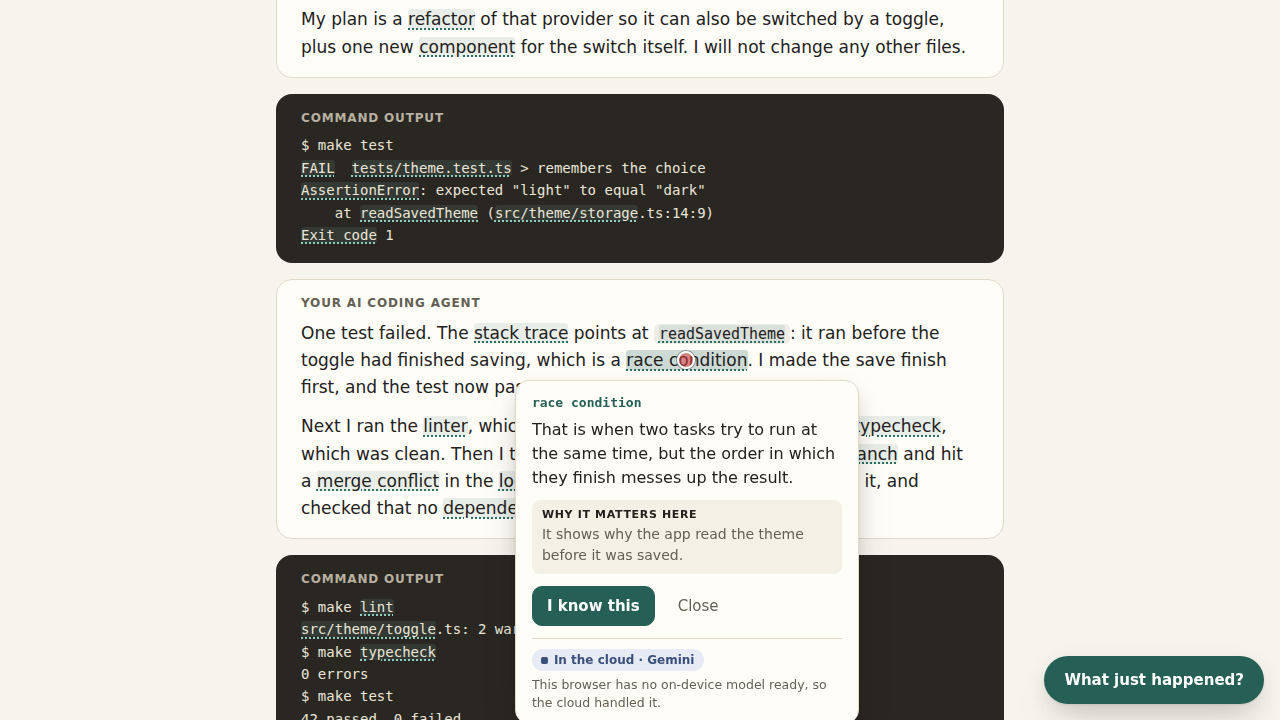
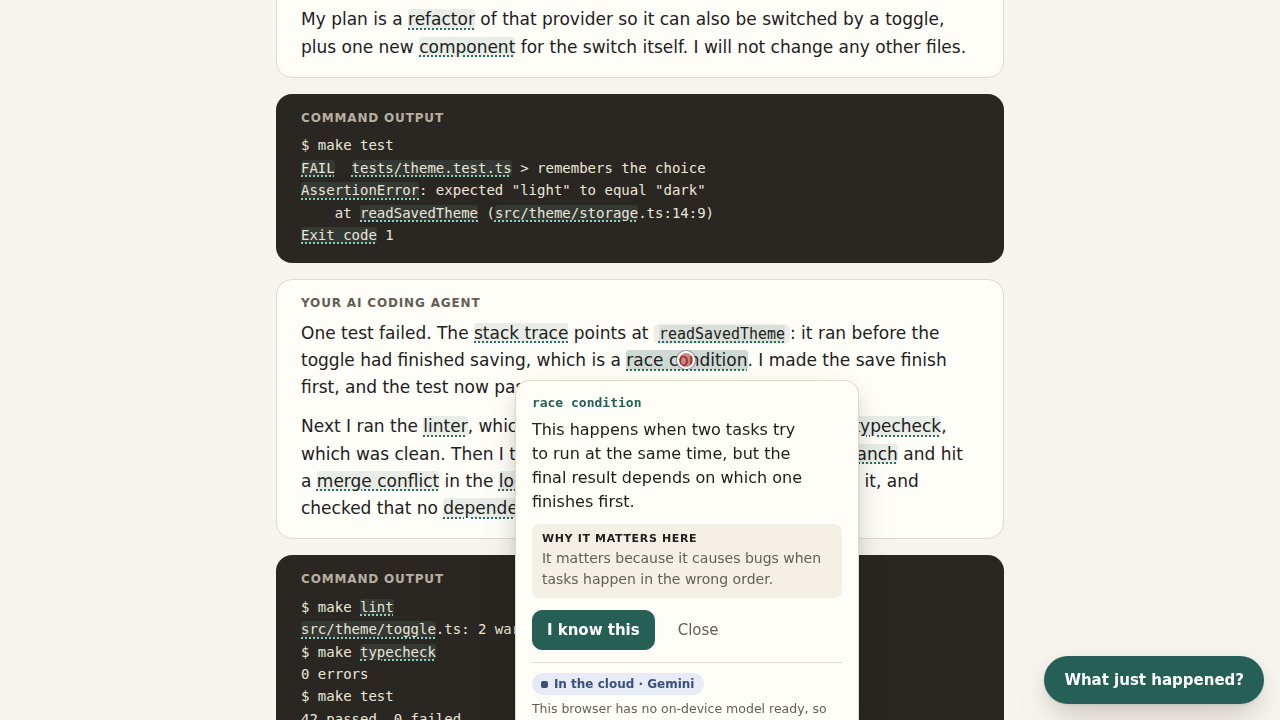
fix: cards explain the term itself; re-voice the demo with a CC0 voice
The lookup prompt now asks for what the term means as used in its
sentence, not a retelling of the sentence. The Terms tab counts places
left plain, not words. Captions split from one line no longer overlap.
The narration voice is Piper en_US-joe-medium (CC0 training data); the
earlier voice's dataset is CC BY-NC-SA. Video cut 1:45, checked with a
local Whisper transcript (98.7% word match).

Changed region(s): [[0.4062, 0.5806, 0.6562, 1.0]]

diff --git a/src/ui/margin.ts b/src/ui/margin.ts
@@ -373,7 +373,7 @@ export class Margin {
       h('strong', {}, String(shown)),
       ` underlined on this page · `,
       h('strong', {}, String(hidden)),
-      hidden === 1 ? ` hidden because you know it` : ` hidden because you know them`,
+      hidden === 1 ? ` place left plain because you know the word` : ` places left plain because you know the word`,
     );
     if (list.length === 0) {
       return [head, h('p', { class: 'empty', style: 'margin-top:12px' }, 'Nothing here yet. When you press “I know this” on a card, the word lands here and stops being highlighted.')];

diff --git a/src/core/prompts.ts b/src/core/prompts.ts
@@ -5,7 +5,8 @@ const VOICE =
 
 export const LOOKUP_SYSTEM =
   `${VOICE} Reply with JSON only. "term" must repeat the term exactly as given. ` +
-  '"plain" is ONE sentence that fits the sentence the term appears in. ' +
+  '"plain" is ONE sentence that says what the term means, as it is used in the sentence it appears in. ' +
+  'Explain the term itself. Do not rewrite, retell or summarise the sentence. ' +
   '"why" is optional: one short line on why it matters in this spot.';
 
 export const WALKTHROUGH_SYSTEM =

diff --git a/docs/submission/video-script.md b/docs/submission/video-script.md
@@ -1,4 +1,4 @@
-# Demo video (1:47, limit 3:00)
+# Demo video (1:45, limit 3:00)
 
 The submitted video is a screen recording of a real run, with narration written to what is on screen. It shows only the app and its code, and nothing about the entrant.
 
@@ -6,8 +6,9 @@ The submitted video is a screen recording of a real run, with narration written 
 
 1. The web app was served with a hosted-style config: a real Firebase project, App Check through reCAPTCHA Enterprise, and no debug token.
 2. `node scripts/record-demo.mjs http://localhost:5198/` drove headless Chromium through the scenes below and saved `dist/video/footage.webm`, the scene start times and the HTTP status of every Firebase call. The run made one App Check exchange and four model calls, and all five returned 200.
-3. The narration lines in [`narration.json`](narration.json) were turned into speech with Piper (voice `en_US-ryan-high`, run locally), one WAV per line.
+3. The narration lines in [`narration.json`](narration.json) were turned into speech with [Piper](https://github.com/OHF-Voice/piper1-gpl), run locally, one WAV per line. The voice is `en_US-joe-medium`, whose model card lists its training data as CC0. Where a line has a `say` field, Piper reads that spelling instead ("lock file"), and the captions keep `text`. No human voice is used.
 4. `node scripts/make-video.mjs <wav-dir>` placed each line at the start of its scene, failed if any line ran into the next scene, burned the same lines in as captions below the footage, and wrote `dist/video/plain-english-margin-demo.mp4`.
+5. The audio of the final cut was transcribed with Whisper (`small.en`, local) and compared word by word with `narration.json`: 98.7% of words matched. The only differences were "lock file" for "lockfile" and "the" for "this".
 
 The recording browser had no on-device model (Chrome on Linux reports `LanguageModel.availability()` as "unavailable"). Every answer in the video came from Gemini in the cloud, and every badge on screen says so. The video makes no on-device claim. The Settings scene shows the on-device model as not available, and the closing card says the recording had no Gemini Nano.
 
@@ -18,15 +19,15 @@ Times are from the final cut.
 | Time | On screen | Narration |
 | --- | --- | --- |
 | 0:00 | Title card | "AI coding agents write long transcripts, full of words like lockfile, rebase and race condition. If you are not an engineer, that is hard to follow." |
-| 0:11 | The demo conversation, with the jargon underlined | "Plain-English Margin underlines the jargon as you read." |
-| 0:20 | Hover "race condition": the card the model wrote for this sentence | "Hover a word, and you get one plain sentence, written for this sentence, and why it matters here." |
-| 0:32 | Hover "lockfile": the badge "In the cloud · Gemini" and its reason | "The badge always says which model answered, and why. This browser has no on-device model, so Gemini in the cloud answered." |
-| 0:40 | Press "I know this" on lockfile, then on rebase | "Press, I know this, and the word stops being underlined." |
-| 0:54 | "What just happened?": summary and numbered steps, with the reason "This is a lot of text, so the cloud handled it." | "What just happened, turns the whole thread into a short summary and numbered steps. Long text goes straight to the cloud, and the panel says so." |
-| 1:10 | The "Terms I know" tab | "The words you know are listed here, and you can undo any of them." |
-| 1:16 | The Settings tab: sync off, on-device model not available | "Sync is off by default, and only ever shares that word list. Settings also show whether Gemini Nano is available in this browser." |
-| 1:24 | Code card: the router in `src/core/router.ts` and the model setup in `src/core/firebase-adapter.ts` | "Under the hood, one Firebase AI Logic model handles both paths. A router picks prefer on device for short text, and cloud only for long text. The badge reads the SDK's own inference source, and App Check protects every call." |
-| 1:39 | Closing card: repository link, licence, and "Recorded in a browser without Gemini Nano" | "Plain-English Margin. A Chrome extension and a web app, open source under Apache 2.0." |
+| 0:10 | The demo conversation, with the jargon underlined | "Plain-English Margin underlines the jargon as you read." |
+| 0:19 | Hover "race condition": the card the model wrote for this sentence | "Hover a word, and you get one plain sentence, written for this sentence, and why it matters here." |
+| 0:29 | Hover "lockfile": the badge "In the cloud · Gemini" and its reason | "The badge always says which model answered, and why. This browser has no Gemini Nano, so the cloud answered." |
+| 0:37 | Press "I know this" on lockfile, then on rebase | "Press, I know this, and the word stops being underlined." |
+| 0:51 | "What just happened?": summary and numbered steps, with the reason "This is a lot of text, so the cloud handled it." | "What just happened, turns the whole thread into a short summary and numbered steps. Long text goes straight to the cloud, and the panel says so." |
+| 1:06 | The "Terms I know" tab | "The words you know are listed here, and you can undo any of them." |
+| 1:12 | The Settings tab: sync off, on-device model not available | "Sync is off by default, and only ever shares that word list. Settings also show whether Gemini Nano is available in this browser." |
+| 1:21 | Code card: the router in `src/core/router.ts` and the model setup in `src/core/firebase-adapter.ts`, shortened for the screen | "One Firebase AI Logic model handles both paths. For short text, it prefers the model on your device, and long text goes only to the cloud. The badge reads the SDK's own inference source." |
+| 1:37 | Closing card: repository link, licence, and "Recorded in a browser without Gemini Nano" | "Plain-English Margin. A Chrome extension and a web app, open source under Apache 2.0." |
 
 ## Not in this video
 

diff --git a/docs/submission/devpost-draft.md b/docs/submission/devpost-draft.md
@@ -1,6 +1,6 @@
 # Devpost draft: Plain-English Margin
 
-Draft text for the owner to review and edit. It makes no claim about the entrant's background. Fill in the links after the repository is public and the video is uploaded. Do not state that on-device inference works until it has been seen working in desktop Chrome with Gemini Nano.
+Text for the Devpost form. It makes no claim about the entrant's background. Fill in the video and demo links once they exist. Do not state that on-device inference works until it has been seen working in desktop Chrome with Gemini Nano.
 
 ## Tagline
 
@@ -23,7 +23,7 @@ The app calls Gemini through the Firebase AI Logic hybrid web SDK (`firebase/ai`
 - **On-device failure:** the app retries once in the cloud and labels the answer that way.
 - **Structured output:** one JSON schema, passed as `onDeviceParams.promptOptions.responseConstraint` for the on-device model and as `inCloudParams.generationConfig.responseSchema` for the cloud model.
 - **Honest labels:** the badge reads `inferenceSource` from the SDK's own response rather than assuming where the answer came from.
-- **App Check** is on, using the debug provider during development because reCAPTCHA does not run in a Manifest V3 extension.
+- **App Check** protects every model call: reCAPTCHA Enterprise on the hosted web page, and the debug provider in the extension, because reCAPTCHA does not run in a Manifest V3 extension.
 - **Optional sync:** Firebase Auth (anonymous) and Firestore can sync the list of known term names. It is a setting, off by default, and it never sends page text.
 
 The model's reply is never trusted blindly. A parser rejects any reply that misses schema fields, answers a different word than the one asked, or names a word that is not in the page text. Those show as a plain "couldn't get a trustworthy answer" note.
@@ -40,7 +40,7 @@ A single code path that is honest about where each answer came from, a reader-ow
 
 ## What is next
 
-Real-model evaluation of explanation quality, a production App Check provider, more languages, and sites that stream text in as it is generated.
+Real-model evaluation of explanation quality, App Check for the extension without a debug token, more languages, and sites that stream text in as it is generated.
 
 ## Built with
 
@@ -48,10 +48,11 @@ TypeScript, Vite, Firebase AI Logic (`firebase/ai`), Firebase App Check, Firebas
 
 ## AI tools used to build it
 
-Claude Code wrote the code at the entrant's direction. All of it was written during the Submission Period, starting 2026-11-18.
+Claude Code (Anthropic) wrote the code, the docs and the demo video's narration script, all during the Submission Period, starting 2026-11-18. The video's voice is synthetic: Piper TTS with the en_US-joe-medium voice, run locally.
 
 ## Links
 
-- Repository: TODO (owner makes it public)
-- Video: TODO (owner uploads)
+- Repository: https://github.com/StartupBros-com/plain-english-margin
+- Video: TODO (YouTube link after upload)
+- Hosted demo: TODO (link after deploy)
 - Try it: load `dist/extension` unpacked, or open the web app; see the README

diff --git a/README.md b/README.md
@@ -131,7 +131,7 @@ Everything in this repository was built after the contest opened. The repository
 
 ## AI tools used
 
-Claude Code (Anthropic) wrote the code and docs at the entrant's direction. The app itself calls Gemini through Firebase AI Logic. Development tools: TypeScript, Vite, Vitest, ESLint, Playwright (for the screenshots).
+Claude Code (Anthropic) wrote the code, the docs and the demo video's narration script. The app itself calls Gemini through Firebase AI Logic. The video's voice is synthetic: Piper TTS with the `en_US-joe-medium` voice, run locally (see [docs/submission/video-script.md](docs/submission/video-script.md)). Development tools: TypeScript, Vite, Vitest, ESLint, Playwright (for the screenshots and the video footage), ffmpeg, Whisper (to check the narration against the script).
 
 ## Layout
 
